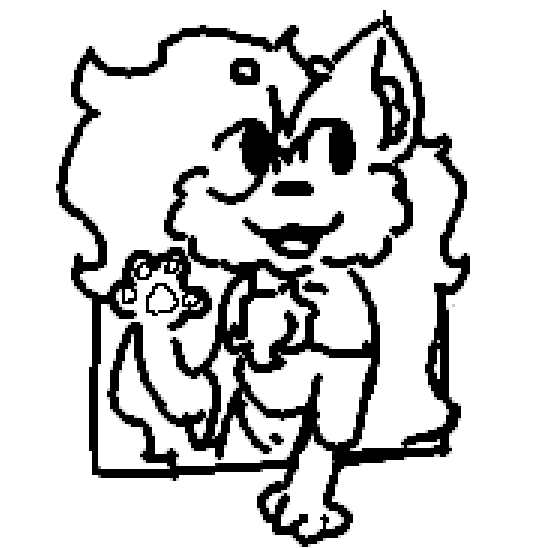
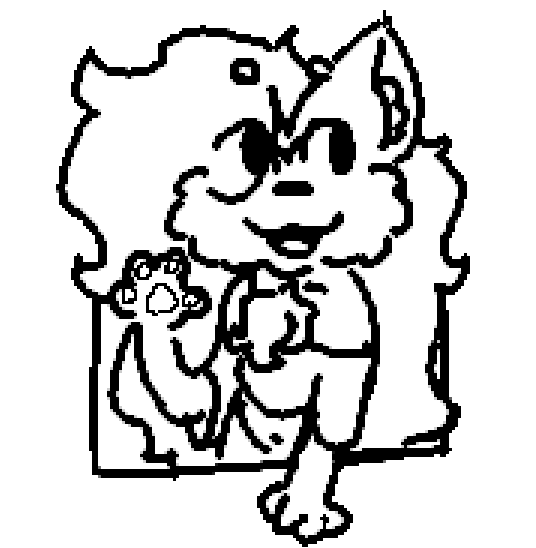
apparently you can tween its so cool
for context im basically learning how to make a site from scratch and im discovering some neat stuff

diff --git a/index.html b/index.html
@@ -1,21 +1,38 @@
 <!-- taken from w3schools html website lol -->
-<!DOCTYPE html> 
+<!DOCTYPE html>
 <html>
 <head>
-<title>Shygee Site</title>
+    <title>Shygee Site</title>
+    <link rel="stylesheet" href="styles.css">
+
+    <script src="https://cdnjs.cloudflare.com/ajax/libs/gsap/3.12.5/gsap.min.js"></script>
 </head>
 <body>
 
-<img
-    width = 200
-    height = 200
-    src = 'hi.png'
-    alt = 'i am four'
-/>
+<div class="gay-hello">
+    <img
+        id = "me"
+        width = 250
+        height = 250
+        src = 'hi.png'
+        alt = 'i am four'
+    />
+    <h1>Hello there</h1>
+</div>
 
-<h1>Hello there</h1>
-<p>this site is very wip lol</p>
-<p>website is open source on my <a  href=https://github.com/ShygeeGit/shygeewebsite>github</a></p>
+<p>this site is very wip lol
+    <br>website is open source on my 
+    <a  href=https://github.com/ShygeeGit/shygeewebsite>github</a>
+</p>
+
+<script>
+    gsap.to("#me", {
+        duration: 2.5,
+        ease: "expo.out", 
+        width: 200,
+        height: 200
+    });
+</script>
 
 </body>
 </html>

diff --git a/styles.css b/styles.css
@@ -1,0 +1,16 @@
+body {
+    background-color: #919191;
+}
+
+h1 {
+    font-size: 55px;
+    color: white;
+    text-shadow: 0px 0px 8px black,
+        0px 0px 8px black,
+        0px 0px 8px black;
+}
+
+.gay-hello {
+    display: flex;
+    align-items: center;
+}
